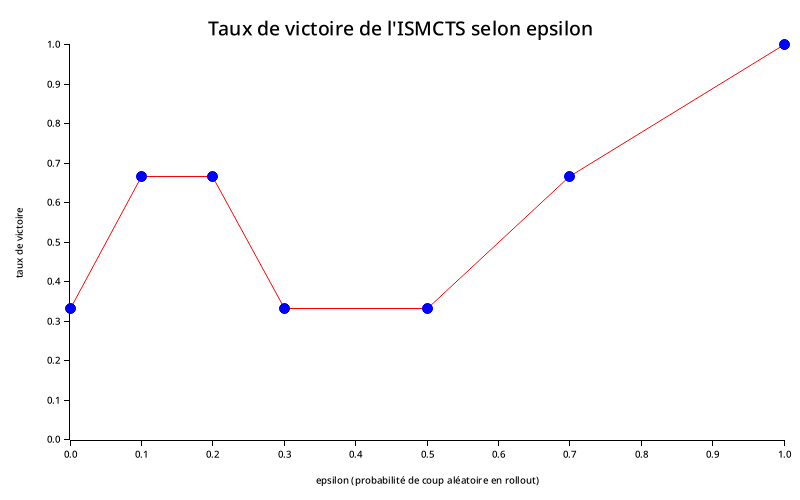
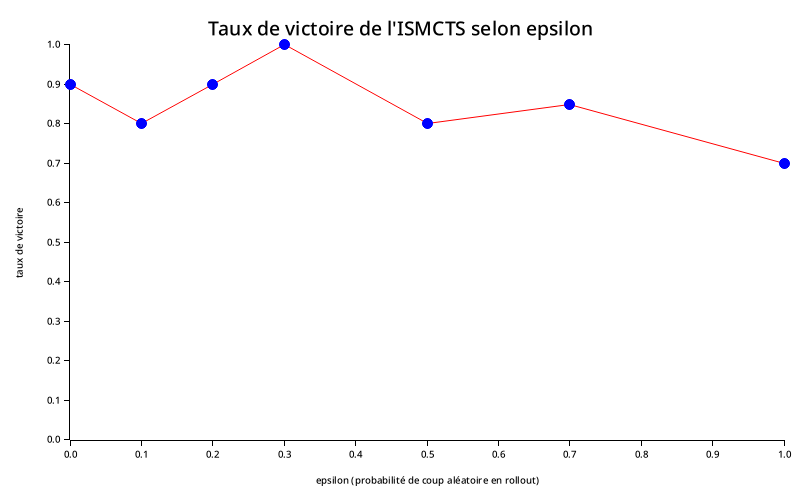
chore(rummikub): release profile with debug symbols, profiling housekeeping, 20-seed epsilon sweep
- [profile.release] debug = true at the workspace root: better
  flamegraphs without slowing optimized runs (first release run: 5
  seeds x 50 sims in 1.3s vs 8.9s in debug).
- perf.data (772 MB) removed and gitignored along with flamegraph.svg.
- ADR 0003 gains the flamegraph findings: allocation dominates, u8
  HashSet hashing of tile ids costs 2-3%, rayon overhead shows at low
  simulation counts; combinaisons_possibles itself is not the
  bottleneck.
- The 20-seed epsilon sweep (run in release) shows guided rollouts
  winning (0.0-0.3 all >= 80%, best 0.3 at 100%) and pure random
  rollouts the worst (1.0 at 70%): the default 0.2 stays valid.
- AGENTS.md records the textplots terminal-chart fallback.

diff --git a/AGENTS.md b/AGENTS.md
@@ -19,6 +19,8 @@ Cargo workspace. `crates/rummikub-core` holds the game logic: package `rummikub-
 - Single test: `cargo test -p rummikub-core <name>` (e.g. `cargo test -p rummikub-core test_valid_runs_with_jokers`)
 - `cargo clippy` and `cargo fmt` components are installed — run both before finalizing changes.
 - Bench: `cargo run -p rummikub-ia [graines] [simulations] [epsilon]` — ISMCTS vs the heuristic bot over fixed seeds; results are appended to `banc/resultats.csv`.
-- Epsilon sweep + curve: `cargo run -p rummikub-ia graphique [graines] [simulations]` — writes `banc/balayage-epsilon.csv` and `banc/graphique-epsilon.png`.
+- Epsilon sweep + curve: `cargo run -p rummikub-ia graphique [graines] [simulations]` — writes `banc/balayage-epsilon.csv` and `banc/graphique-epsilon.png`. Run benchmarks and sweeps with `--release` (5-7x faster than debug).
+- Profiling: `[profile.release] debug = true` is set at the workspace root for `cargo flamegraph`; `perf.data` and `flamegraph.svg` are gitignored.
+- Terminal chart fallback if ever needed: the `textplots` crate draws an instant ASCII curve (plotters stays the main choice for PNG/SVG).
 - Architecture decisions live in `docs/adr/` — read them before touching the
   move enumeration (determinism, scope), and record significant decisions there.

diff --git a/docs/adr/0003-ismcts-pour-le-joueur-de-recherche.md b/docs/adr/0003-ismcts-pour-le-joueur-de-recherche.md
@@ -71,3 +71,20 @@ flowchart TD
 - **Récompenses pour les rollouts non terminés** : estimer l'avantage
   courant au lieu de tout mettre à 0 — attention au reward shaping mal
   calibré.
+
+## Constats du flamegraph (2026-11-02)
+
+Profilage release d'un tournoi 5 graines × 50 simulations :
+
+- L'**allocation mémoire** domine (malloc/realloc/free ≈ 5% cumulés) : les
+  `Vec<Combinaison>` clonés pour chaque coup énuméré et chaque état de
+  manipulation sont la cible principale d'une future optimisation.
+- Le **hachage des identifiants de tuiles** (`HashSet<u8>` dans
+  `verifier_proposition`, `soumettre_plateau`, `plateau.ids_tuiles`,
+  `poses_initiales`) coûte ≈ 2-3% — remplaçable par des bitsets (106 tuiles
+  = 2 × u64) si besoin de vitesse.
+- La **surcharge rayon** (sched_yield, réveils de threads) est visible à
+  petit nombre de simulations : à 50 par décision, envisager moins de
+  threads ou plus de simulations par thread.
+- `combinaisons_possibles` elle-même n'est PAS le goulot d'étranglement :
+  c'est ce qui l'entoure (allocations + hachage) qui coûte.
